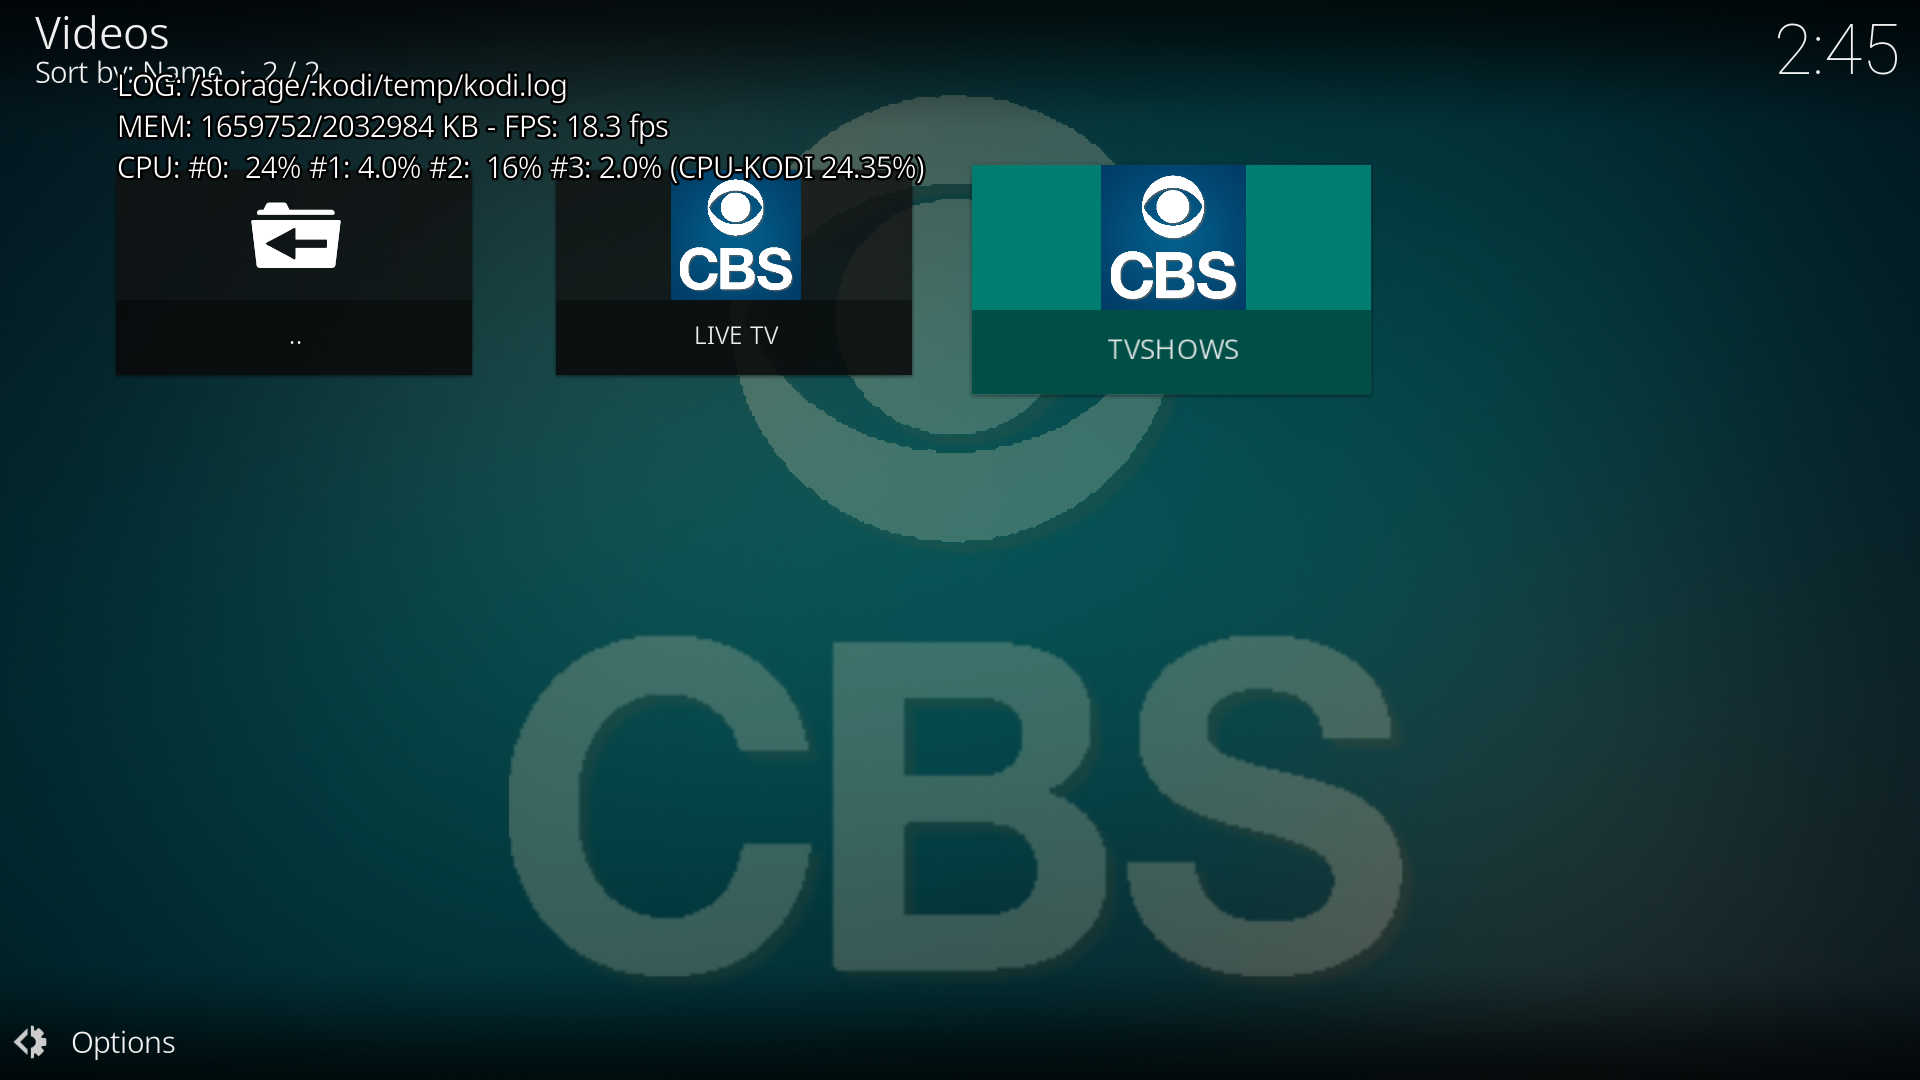
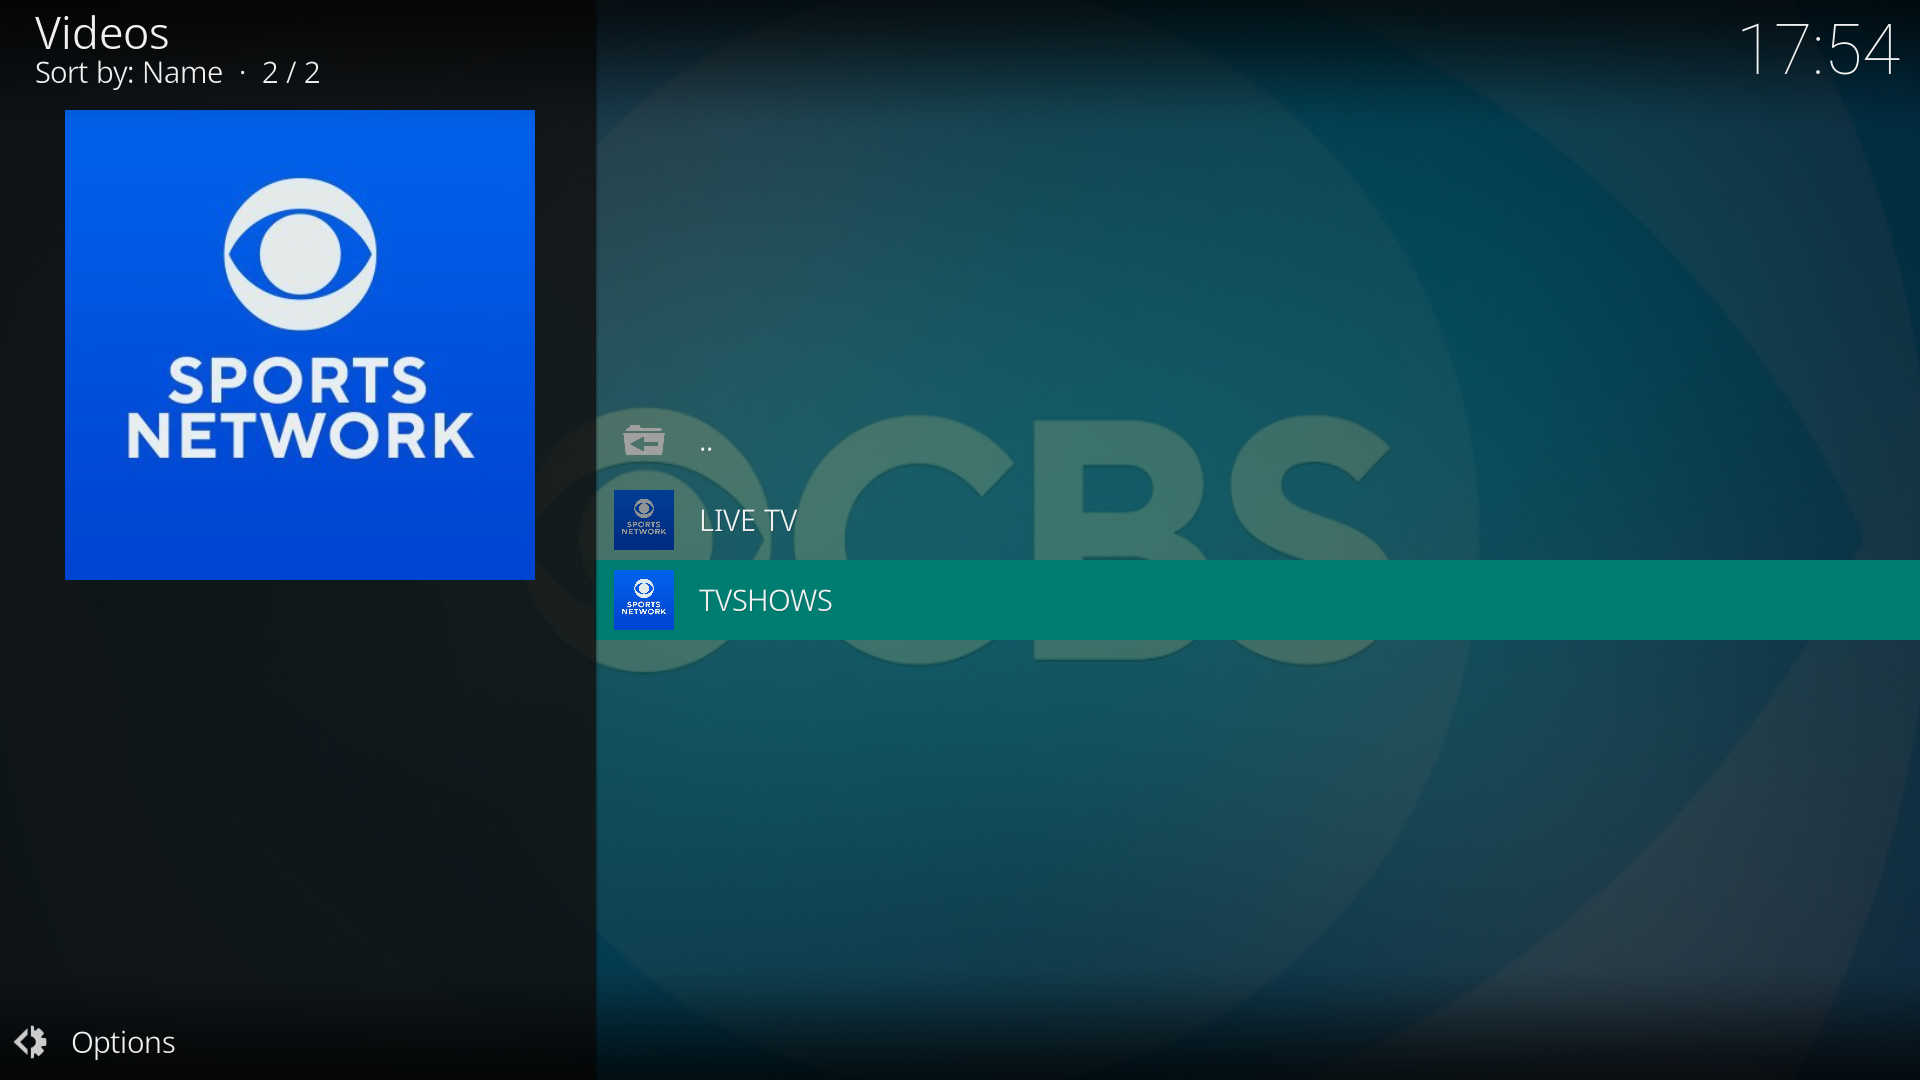
change plugin id to cbsnetwork

diff --git a/resources/lib/vars.py b/resources/lib/vars.py
@@ -1,12 +1,12 @@
 # Copyright: (c) 2016, Chamchenko
 # GNU General Public License v2.0+ (see LICENSE.txt or https://www.gnu.org/licenses/gpl-2.0.txt)
-# This file is part of plugin.video.cbs
+# This file is part of plugin.video.cbsnetwork
 # -*- coding: utf-8 -*-
 
 from __future__ import unicode_literals
 import xbmcaddon
 from xbmc import getInfoLabel
-ADDON_ID = 'plugin.video.cbs'
+ADDON_ID = 'plugin.video.cbsnetwork'
 REAL_SETTINGS = xbmcaddon.Addon(id=ADDON_ID)
 ADDON_NAME = REAL_SETTINGS.getAddonInfo('name')
 SETTINGS_LOC = REAL_SETTINGS.getAddonInfo('profile')

diff --git a/resources/lib/cbs.py b/resources/lib/cbs.py
@@ -1,6 +1,6 @@
 # Copyright: (c) 2016, Chamchenko
 # GNU General Public License v2.0+ (see LICENSE.txt or https://www.gnu.org/licenses/gpl-2.0.txt)
-# This file is part of plugin.video.cbs
+# This file is part of plugin.video.cbsnetwork
 # -*- coding: utf-8 -*-
 from __future__ import unicode_literals
 

diff --git a/resources/lib/create_item.py b/resources/lib/create_item.py
@@ -1,6 +1,6 @@
 # Copyright: (c) 2016, Chamchenko
 # GNU General Public License v2.0+ (see LICENSE.txt or https://www.gnu.org/licenses/gpl-2.0.txt)
-# This file is part of plugin.video.cbs
+# This file is part of plugin.video.cbsnetwork
 # -*- coding: utf-8 -*-
 
 from __future__ import unicode_literals

diff --git a/resources/lib/livetv.py b/resources/lib/livetv.py
@@ -1,6 +1,6 @@
 # Copyright: (c) 2016, Chamchenko
 # GNU General Public License v2.0+ (see LICENSE.txt or https://www.gnu.org/licenses/gpl-2.0.txt)
-# This file is part of plugin.video.cbs
+# This file is part of plugin.video.cbsnetwork
 # -*- coding: utf-8 -*-
 
 from __future__ import unicode_literals

diff --git a/resources/lib/playback_resolver.py b/resources/lib/playback_resolver.py
@@ -1,6 +1,6 @@
 # Copyright: (c) 2016, Chamchenko
 # GNU General Public License v2.0+ (see LICENSE.txt or https://www.gnu.org/licenses/gpl-2.0.txt)
-# This file is part of plugin.video.cbs
+# This file is part of plugin.video.cbsnetwork
 # -*- coding: utf-8 -*-
 
 from __future__ import unicode_literals

diff --git a/resources/lib/tools.py b/resources/lib/tools.py
@@ -1,6 +1,6 @@
 # Copyright: (c) 2016, Chamchenko
 # GNU General Public License v2.0+ (see LICENSE.txt or https://www.gnu.org/licenses/gpl-2.0.txt)
-# This file is part of plugin.video.cbs
+# This file is part of plugin.video.cbsnetwork
 # -*- coding: utf-8 -*-
 
 from __future__ import unicode_literals

diff --git a/resources/lib/tvshows.py b/resources/lib/tvshows.py
@@ -1,6 +1,6 @@
 # Copyright: (c) 2016, Chamchenko
 # GNU General Public License v2.0+ (see LICENSE.txt or https://www.gnu.org/licenses/gpl-2.0.txt)
-# This file is part of plugin.video.cbs
+# This file is part of plugin.video.cbsnetwork
 # -*- coding: utf-8 -*-
 
 from __future__ import unicode_literals
